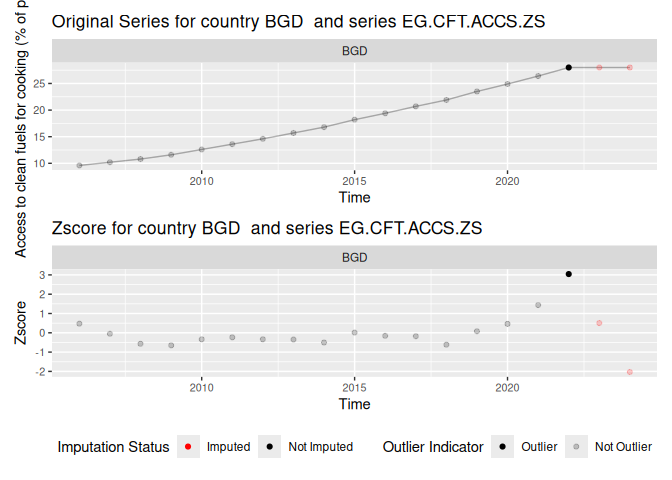
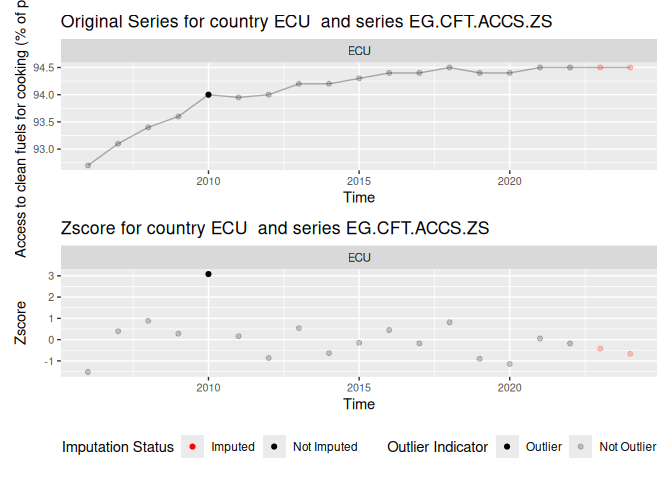
Minor changes to readme

diff --git a/README.md b/README.md
@@ -22,7 +22,12 @@ You can install the development version of macroanomaly from
 
 ``` r
 # install.packages("pak")
-pak::pak("lucianopv/macroanomaly")
+# pak::pak("lucianopv/macroanomaly")
+# install.packages("devtools")
+devtools::install_github("lucianopv/macroanomaly", dependencies = TRUE, build_vignettes = TRUE)
+# Alternatively, you can use remotes package
+# install.packages("remotes")
+# remotes::install_github("lucianopv/macroanomaly", dependencies = TRUE, build_vignettes = TRUE)
 ```
 
 ## Example
@@ -85,7 +90,7 @@ wdi_data_long_subset_normalized |>
   detect(.method = c("tsoutlier", "isotree", "capa"), .args = list(capa = c(.min_seg_len = 3), isotree = c(.threshold = 0.7))) -> wdi_data_long_multiple_methods
 
 # Plot the results for a specific country and indicator
-plot(wdi_data_long_multiple_methods, country = "BGD", indicator = "EG.CFT.ACCS.ZS",
+plot(wdi_data_long_multiple_methods, country = "ECU", indicator = "EG.CFT.ACCS.ZS",.total_threshold = 2,
      x.lab = "Time", y.lab = "Access to clean fuels for cooking (% of pop.)")
 ```
 
